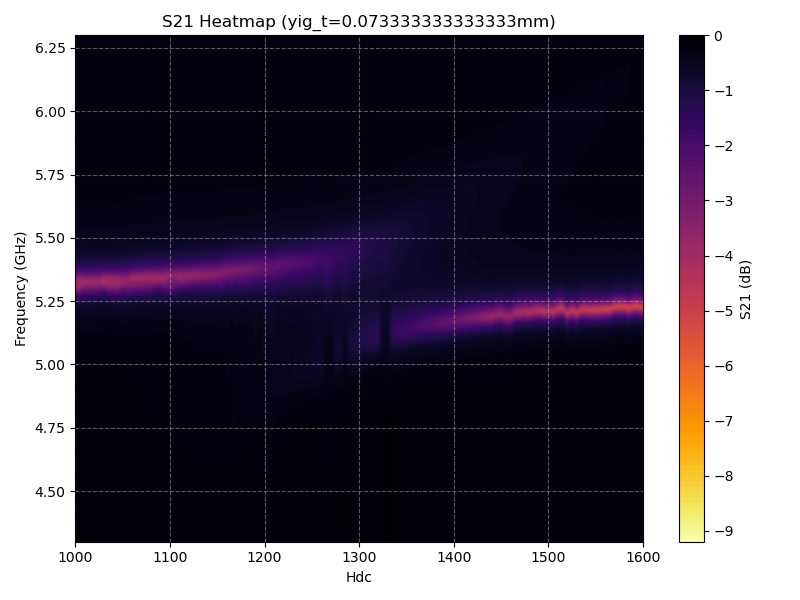
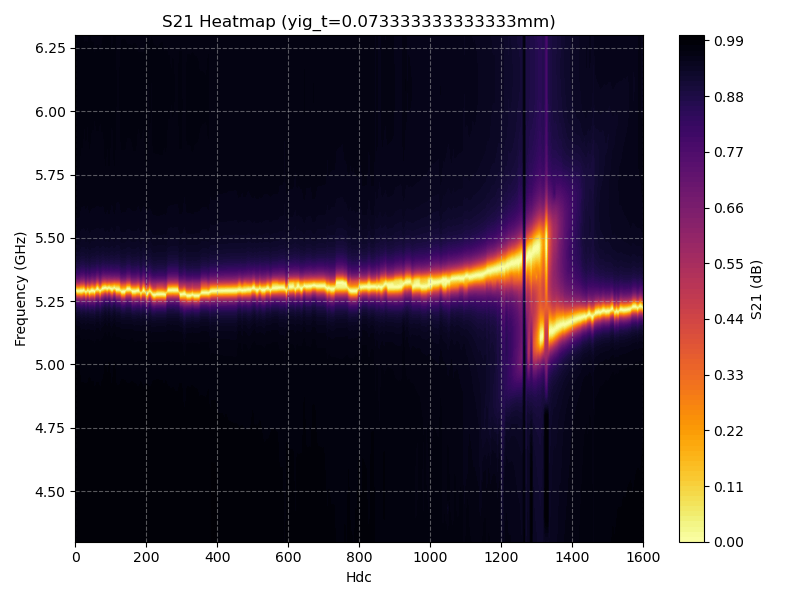
fix: normalize S21 data and update plot saving paths in t-sweep scripts

diff --git a/plotter_t_sweep.py b/plotter_t_sweep.py
@@ -7,10 +7,10 @@ import csv
 csv_files = []
 
 # List of CSV file paths
-for roots, dirs, files in os.walk("data\\lone_t_sweep_yig"):
+data_dir = os.path.join("data","yig_t_sweep_outputs")
     # if dirs == ['intermediaries', 'peaks_widths']:
         # csv_files = [os.path.join(roots, file) for file in files if file.endswith('.csv')]# if dirs == ['intermediaries', 'peaks_widths']]
-    csv_files = [os.path.join(roots, file) for file in files if file.endswith('.csv')]# if dirs == ['intermediaries', 'peaks_widths']]
+csv_files = [os.path.join(data_dir, file) for file in os.listdir(data_dir) if file.endswith('.csv')]# if dirs == ['intermediaries', 'peaks_widths']]
 
 for file in csv_files:
     # Load the data
@@ -24,6 +24,9 @@ for file in csv_files:
     freq = pivot_table.to_numpy()[:,0]
     hdc = np.array(pivot_table.columns)[1:].astype(float) # Skip the first column which is 'Frequency'
     s21 = pivot_table.to_numpy()[:,1:] # Skip the first column which is 'Frequency'
+
+    # print(s21);assert 0
+    s21 = (s21 - s21.min(axis=0)) / (s21.max(axis=0) - s21.min(axis=0))
     
     # Plotting
     plt.figure(figsize=(8, 6))
@@ -33,9 +36,9 @@ for file in csv_files:
     plt.xlabel("Hdc")
     plt.ylabel("Frequency (GHz)")
     plt.ylim(4.3,6.3)
-    plt.xlim(1000,1600)
+    # plt.xlim(1000,1600)
     plt.grid(True, linestyle='--', alpha=0.5)
     plt.tight_layout()
-    os.makedirs("results\\lone_yig_sweep", exist_ok=True)
-    plt.savefig(f"results\\lone_yig_sweep\\yig_t_sweep_plot_{int(float(yig_t_value)*1e3)}um.png")
+    os.makedirs(os.path.join("results","normalised"), exist_ok=True)
+    plt.savefig(os.path.join("results","normalised",f"yig_t_sweep_{int(float(yig_t_value)*1e3)}um.png"))
     print(f"Plot saved for yig_t={yig_t_value}mm")

diff --git a/plotter.py b/plotter.py
@@ -93,6 +93,7 @@ def extract_data(file_path):
     H_params = np.array(H_params)
     s21 = np.array(s21).T  # Convert S21 to a 2D array (transpose for correct dimensions)
 
+    s21 = (s21 - s21.min(axis=0)) / (s21.max(axis=0) - s21.min(axis=0))
     return frequency, H_params, s21
 
 def sorter(H_params, s21):
